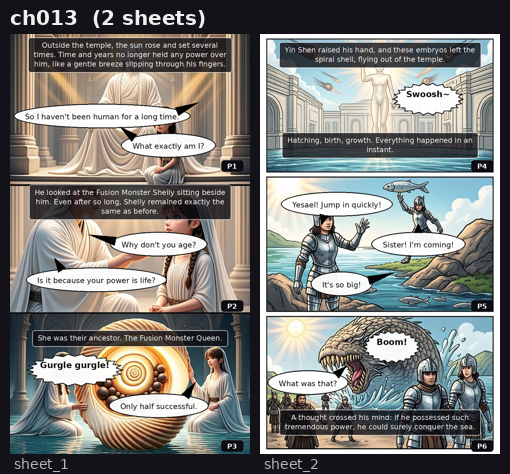
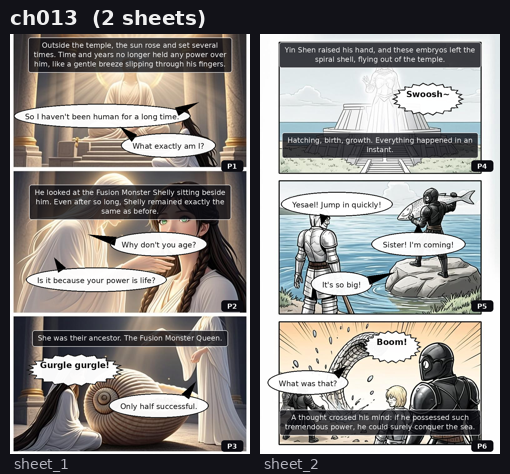
Add ch014 'The Priest of God' (2 sheets / 6 pages): fusion monsters gifted, Yesael branded first priest; QC 3 rounds, P6 god-look residual noted

diff --git a/pipeline/plans/ch014.py b/pipeline/plans/ch014.py
@@ -1,0 +1,42 @@
+# Chapter 14 — The Priest of God (verbatim adaptation)
+PLAN = {
+    "chapter": 14,
+    "title": "The Priest of God",
+    "palette": "city",
+    "sheets": [
+        {
+            "sheet": 1,
+            "pages": [
+                {"page": 1, "art": "Shore outside the white stone city: a frightened crowd of @tmen@, every head encased in a three-lobed trilobite bone helmet with no hair visible, gathered at the waterline, some collapsed crawling back on the sand; in the sea several @fmon@ rising, gaping mouths roaring toward the sky",
+                 "els": [{"kind": "narration", "text": "Everyone trembled as they watched the giant beasts in the ocean. The gaping maws of those monsters seemed poised to devour the sun in the sky.", "cx": 0.5, "cy": 0.05},
+                         {"kind": "say", "text": "What are these?", "cx": 0.28, "cy": 0.225, "tx": 0.4, "ty": 0.27},
+                         {"kind": "say", "text": "How can there be such enormous monsters?", "cx": 0.68, "cy": 0.30, "tx": 0.5, "ty": 0.25}]},
+                {"page": 2, "art": "@redlichia@ standing tall on a beach rock, bone crown gleaming over his dark three-lobed helmet with no hair visible, one hand raised high over the helmeted kneeling crowd; a @fmon@ tiny in the distant sea haze",
+                 "els": [{"kind": "say", "text": "Do not fear!", "cx": 0.62, "cy": 0.42, "tx": 0.55, "ty": 0.37},
+                         {"kind": "say", "text": "These monsters are God's servants.", "cx": 0.35, "cy": 0.50, "tx": 0.55, "ty": 0.455},
+                         {"kind": "narration", "text": "A strange power instantly quieted the restless and panicked crowd.", "cx": 0.5, "cy": 0.615}]},
+                {"page": 3, "art": "@redlichia@ climbing the last pyramid steps at golden dawn, above him @god@ — a faceless silhouette of glowing white light — standing before the temple gazing at the sea where the monsters swim",
+                 "els": [{"kind": "narration", "text": "Redlichia hurriedly ran to the top of the pyramid temple and saw the divine being admiring his handiwork.", "cx": 0.5, "cy": 0.735},
+                         {"kind": "say", "text": "How is it?", "cx": 0.32, "cy": 0.855, "tx": 0.55, "ty": 0.80},
+                         {"kind": "say", "text": "Do you like it?", "cx": 0.60, "cy": 0.925, "tx": 0.55, "ty": 0.87}]},
+            ],
+        },
+        {
+            "sheet": 2,
+            "pages": [
+                {"page": 4, "art": "Temple top at dawn: @god@, a faceless silhouette of pure glowing white light with no cloth, no hair, no face, stands beside the altar sweeping one radiant hand over the sea far below; @redlichia@ kneels with tears streaming beneath his dark three-lobed helmet; empty sky, no sea creatures, no writing",
+                 "els": [{"kind": "say", "text": "This is the gift I bestow upon you!", "cx": 0.48, "cy": 0.075, "tx": 0.5, "ty": 0.135},
+                         {"kind": "say", "text": "With them, neither the deep sea nor land can obstruct your path.", "cx": 0.62, "cy": 0.20, "tx": 0.5, "ty": 0.155},
+                         {"kind": "say", "text": "May I give this opportunity to my son?", "cx": 0.35, "cy": 0.30, "tx": 0.45, "ty": 0.245}]},
+                {"page": 5, "art": "Moonlit night on the high city walls: young Yesael, a small boy in glossy black chitin plate armor, head fully encased in a smooth dark three-lobed trilobite bone helmet with no hair visible, walking alone gazing at the sea horizon, fists clenched, the sleeping white city below",
+                 "els": [{"kind": "narration", "text": "Yesael was too excited to sleep that night. He walked out of the palace and strolled along the high walls in exhilaration.", "cx": 0.5, "cy": 0.425},
+                         {"kind": "say", "text": "The sea and the land.", "cx": 0.32, "cy": 0.545, "tx": 0.45, "ty": 0.50},
+                         {"kind": "say", "text": "I will conquer you.", "cx": 0.62, "cy": 0.62, "tx": 0.45, "ty": 0.575}]},
+                {"page": 6, "art": "Temple dawn interior: @god@, a tall slender figure made entirely of glowing white light, completely faceless, no cloth, no hair, bends down and touches with one luminous fingertip the forehead of young boy Yesael who wears glossy black chitin plate armor and a dark three-lobed trilobite helmet; warm light spills from the touch; @redlichia@ watches proudly from the side; plain stone columns, no writing, no symbols, no letters",
+                 "els": [{"kind": "say", "text": "From this day forward.", "cx": 0.42, "cy": 0.755, "tx": 0.5, "ty": 0.71},
+                         {"kind": "say", "text": "It is yours.", "cx": 0.66, "cy": 0.83, "tx": 0.5, "ty": 0.785},
+                         {"kind": "narration", "text": "Yesael, the great son of Redlichia, became the first priest of the God-Given City.", "cx": 0.5, "cy": 0.93}]},
+            ],
+        },
+    ],
+}

diff --git a/I am God/ADAPTATION.md b/I am God/ADAPTATION.md
@@ -1,4 +1,4 @@
-# I am God — Adaptation Plan (Chapters 1-13)
+# I am God — Adaptation Plan (Chapters 1-14)
 
 Source: *I am God* (web novel, 458 chapters). This document records the chapter-by-chapter
 adaptation produced so far. Each generated image is a vertical strip of **3 manga pages**;
@@ -44,6 +44,7 @@ English translation. Generated art is **zero-text**; all lettering is overlaid p
 | 11 | Do You See? | city | 2 | 6 | complete |
 | 12 | Mythical Blood | city | 2 | 6 | complete |
 | 13 | The Fusion Monster Race | city | 2 | 6 | complete |
+| 14 | The Priest of God | city | 2 | 6 | complete |
 
 ## Page-by-page breakdown
 
@@ -378,4 +379,36 @@ English translation. Generated art is **zero-text**; all lettering is overlaid p
   - `roar`: "Boom!"
   - `say`: "What was that?"
   - `narration`: "A thought crossed his mind: if he possessed such tremendous power, he could surely conquer the sea."
+
+### Chapter 14 — The Priest of God  (palette: city)
+
+**Sheet 1**
+
+- **P1** — Shore outside the white stone city: a frightened crowd of @tmen@, every head encased in a three-lobed trilobite bone helmet with no hair visible, gathered at the waterline, some collapsed crawling back on the sand; in the sea several @fmon@ rising, gaping mouths roaring toward the sky
+  - `narration`: "Everyone trembled as they watched the giant beasts in the ocean. The gaping maws of those monsters seemed poised to devour the sun in the sky."
+  - `say`: "What are these?"
+  - `say`: "How can there be such enormous monsters?"
+- **P2** — @redlichia@ standing tall on a beach rock, bone crown gleaming over his dark three-lobed helmet with no hair visible, one hand raised high over the helmeted kneeling crowd; a @fmon@ tiny in the distant sea haze
+  - `say`: "Do not fear!"
+  - `say`: "These monsters are God's servants."
+  - `narration`: "A strange power instantly quieted the restless and panicked crowd."
+- **P3** — @redlichia@ climbing the last pyramid steps at golden dawn, above him @god@ — a faceless silhouette of glowing white light — standing before the temple gazing at the sea where the monsters swim
+  - `narration`: "Redlichia hurriedly ran to the top of the pyramid temple and saw the divine being admiring his handiwork."
+  - `say`: "How is it?"
+  - `say`: "Do you like it?"
+
+**Sheet 2**
+
+- **P4** — Temple top at dawn: @god@, a faceless silhouette of pure glowing white light with no cloth, no hair, no face, stands beside the altar sweeping one radiant hand over the sea far below; @redlichia@ kneels with tears streaming beneath his dark three-lobed helmet; empty sky, no sea creatures, no writing
+  - `say`: "This is the gift I bestow upon you!"
+  - `say`: "With them, neither the deep sea nor land can obstruct your path."
+  - `say`: "May I give this opportunity to my son?"
+- **P5** — Moonlit night on the high city walls: young Yesael, a small boy in glossy black chitin plate armor, head fully encased in a smooth dark three-lobed trilobite bone helmet with no hair visible, walking alone gazing at the sea horizon, fists clenched, the sleeping white city below
+  - `narration`: "Yesael was too excited to sleep that night. He walked out of the palace and strolled along the high walls in exhilaration."
+  - `say`: "The sea and the land."
+  - `say`: "I will conquer you."
+- **P6** — Temple dawn interior: @god@, a tall slender figure made entirely of glowing white light, completely faceless, no cloth, no hair, bends down and touches with one luminous fingertip the forehead of young boy Yesael who wears glossy black chitin plate armor and a dark three-lobed trilobite helmet; warm light spills from the touch; @redlichia@ watches proudly from the side; plain stone columns, no writing, no symbols, no letters
+  - `say`: "From this day forward."
+  - `say`: "It is yours."
+  - `narration`: "Yesael, the great son of Redlichia, became the first priest of the God-Given City."
 
